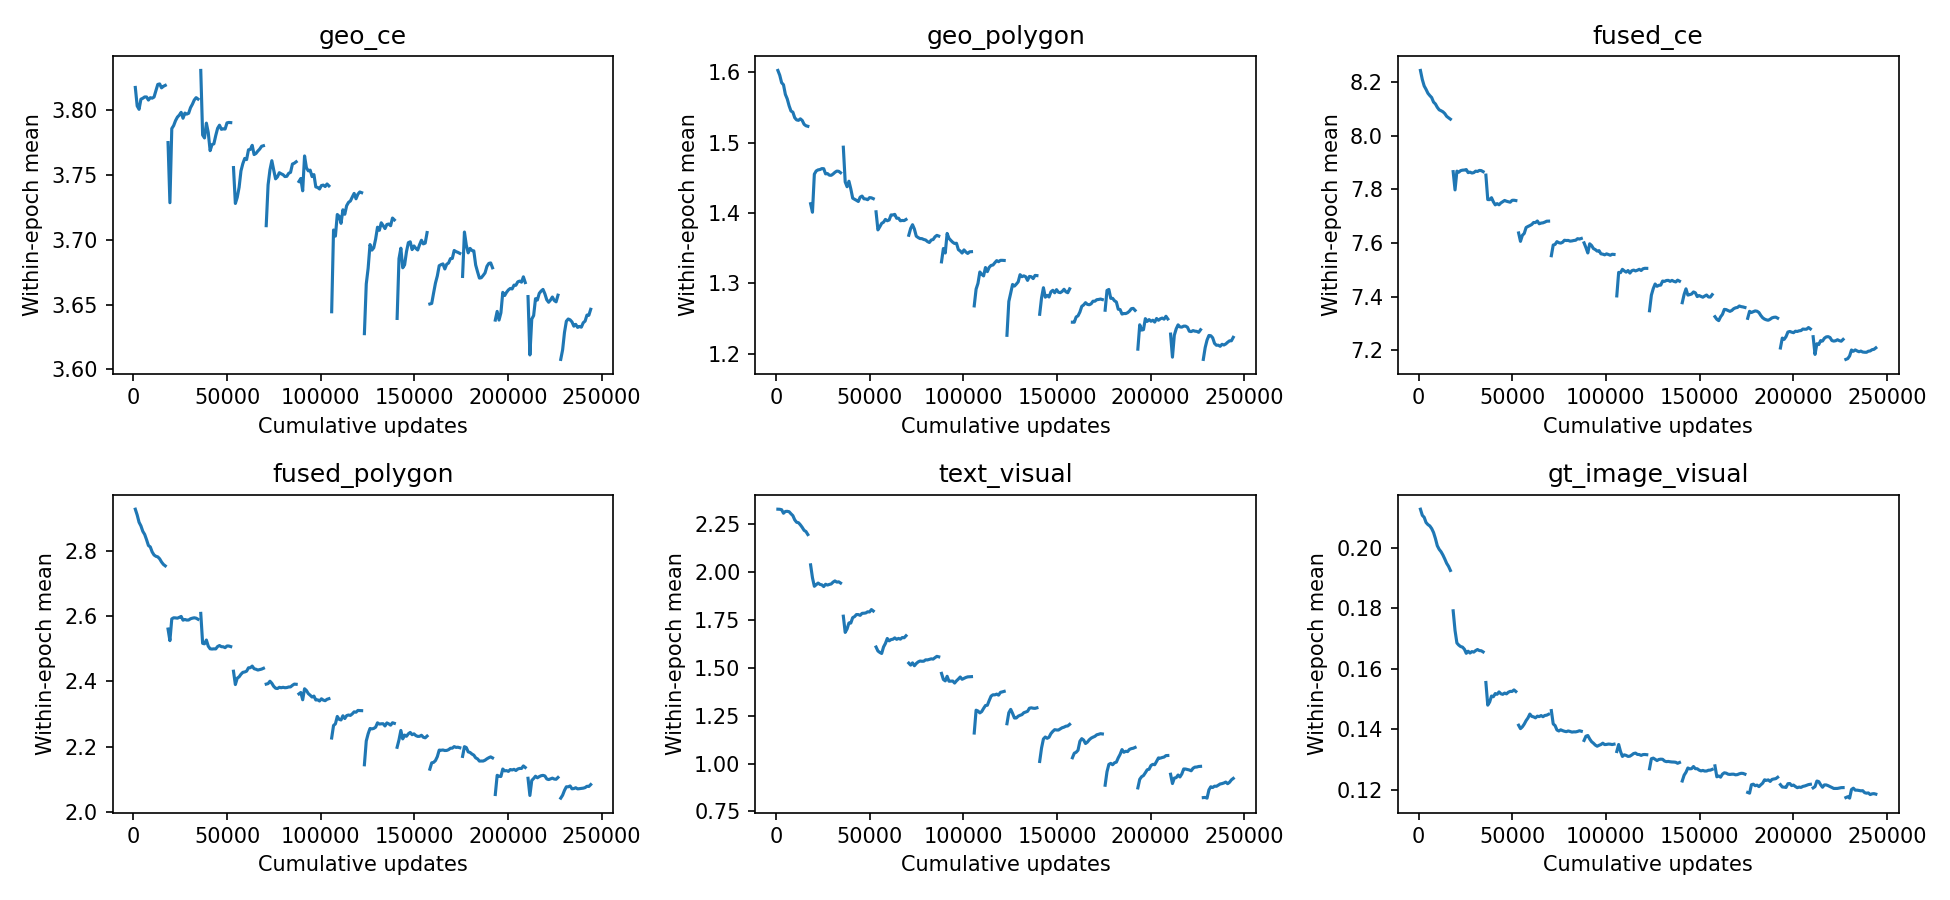
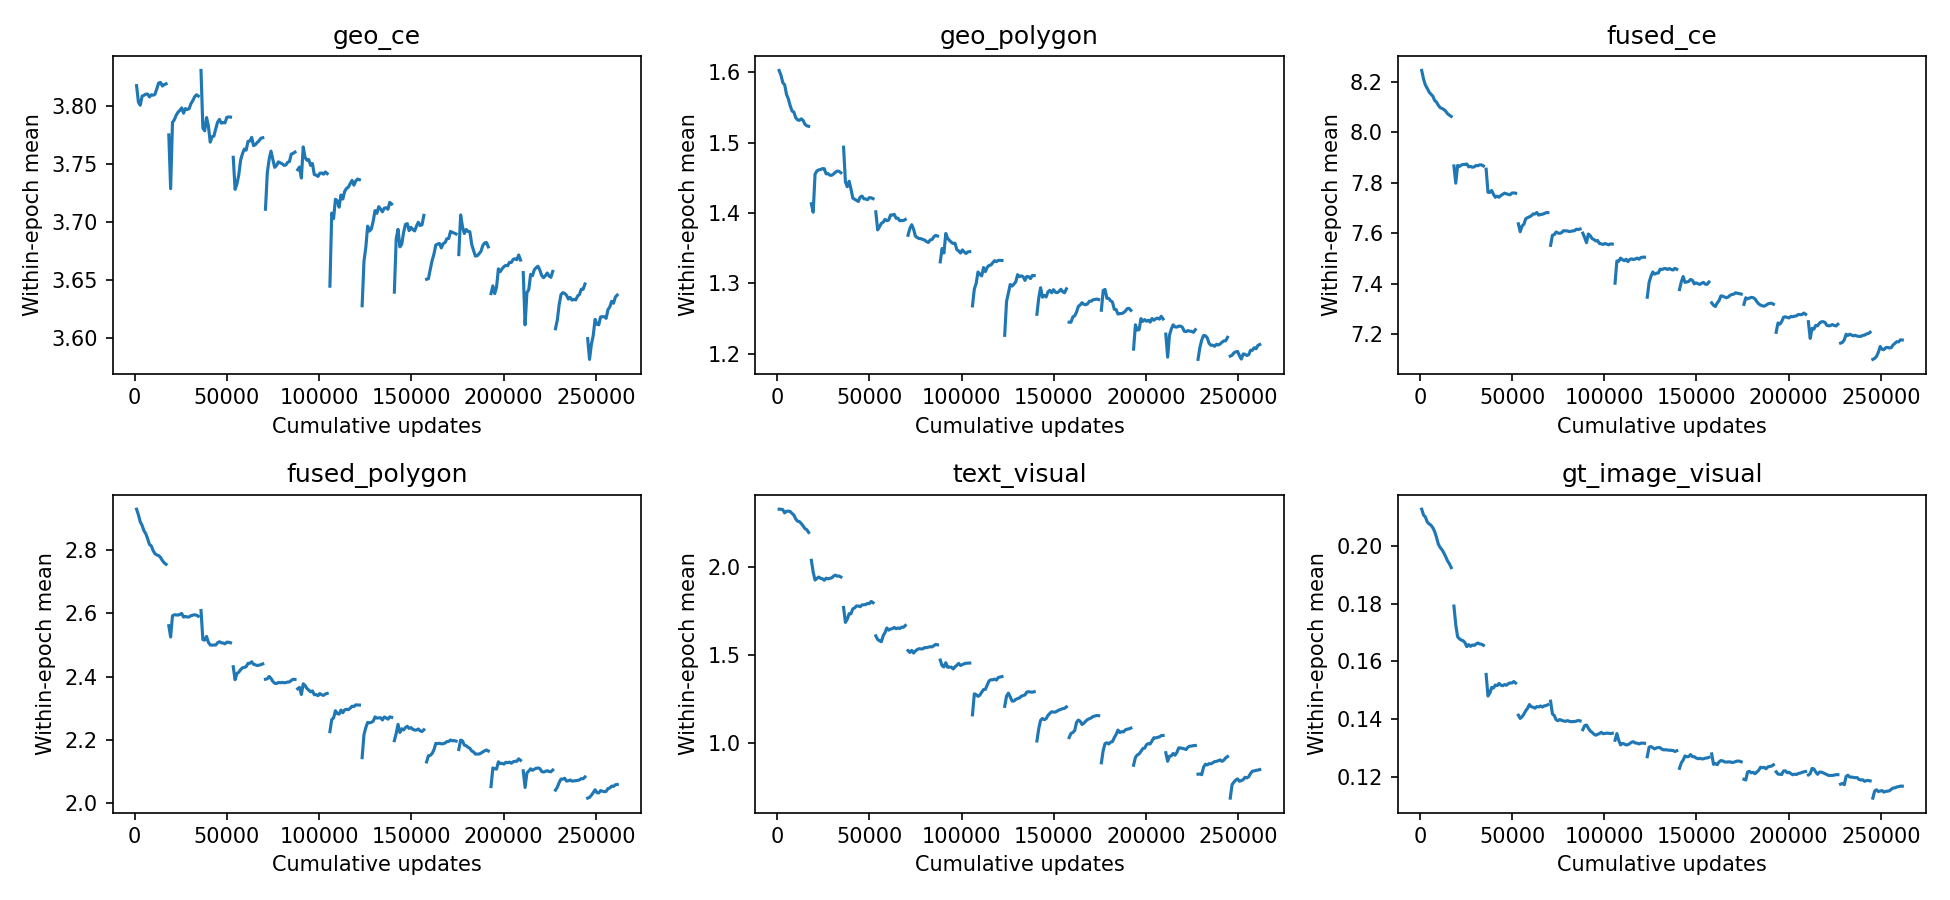
reports(v3): record fifteenth epoch and remaining training budget

diff --git a/reports/unified_pgvb/v3_full_training/REPORT_zh.md b/reports/unified_pgvb/v3_full_training/REPORT_zh.md
@@ -2,7 +2,7 @@
 
 完整TRAIN输入21878条；本阶段拟合17473条、物理目标留出4405条，物理分组重叠0。初始化V2曾使用TRAIN，内部留出不是完全未见泛化。
 
-当前已完成完整Epoch：14；训练结束：False。
+当前已完成完整Epoch：15；训练结束：False。
 
 Geometry和轻量视觉模块训练，BERT/SigLIP2冻结并读取缓存；seed42，原权重保留。四小时累计训练预算，至少三轮后连续两轮相对Loss改善<0.5%提前停止。未修改Stop=0.3、1mm守卫或Horizon。
 
@@ -24,6 +24,7 @@ Geometry和轻量视觉模块训练，BERT/SigLIP2冻结并读取缓存；seed42
 |12|17473|11.966297|761.70|0.144|
 |13|17473|11.894328|765.75|0.144|
 |14|17473|11.827870|772.62|0.144|
+|15|17473|11.766001|778.04|0.144|
 
 ![训练Loss](training_loss.png)
 ![Loss分量](loss_components.png)
